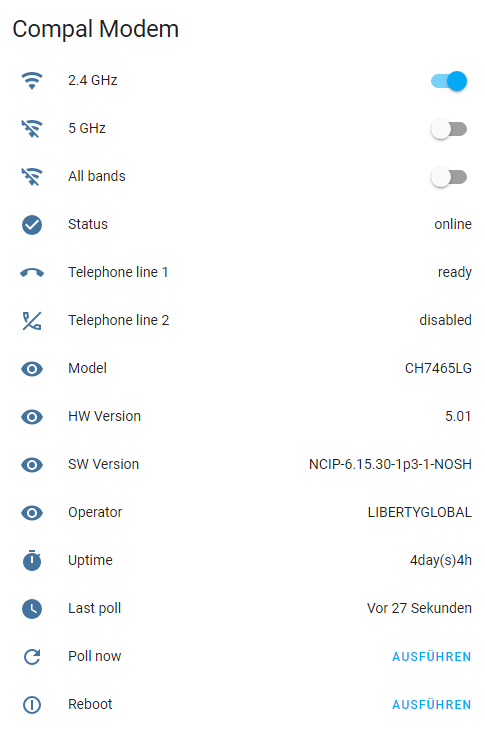
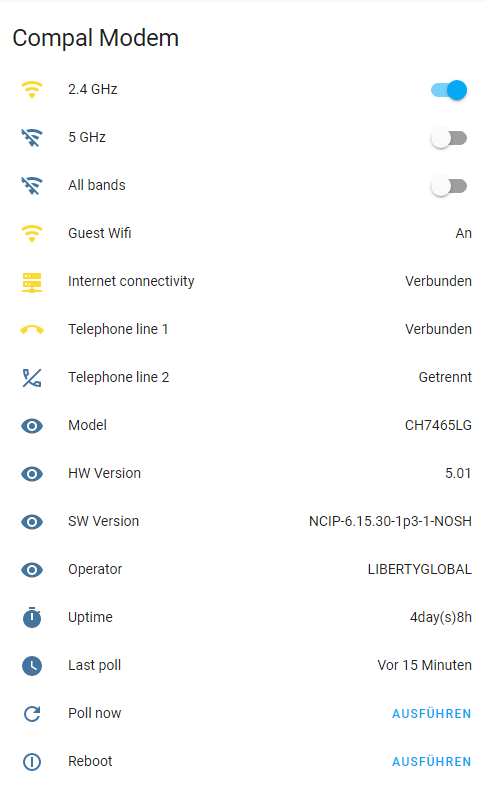
Added binary sensors

diff --git a/custom_components/compal_wifi/binary_sensor.py b/custom_components/compal_wifi/binary_sensor.py
@@ -1,0 +1,149 @@
+"""Platform for binary_sensor integration."""
+
+from homeassistant.components.binary_sensor import BinarySensorEntity
+from homeassistant.components.binary_sensor import DEVICE_CLASS_CONNECTIVITY
+
+from . import DOMAIN
+
+
+def setup_platform(hass, config, add_entities, discovery_info=None):
+    """Set up the sensor platform."""
+    # We only want this platform to be set up via discovery.
+    if discovery_info is None:
+        return
+    compal_config = hass.data[DOMAIN]
+    add_entities(
+        [
+            GuestWifiBinarySensor(compal_config),
+            ModemConnectivityBinarySensor(compal_config),
+            TelephoneLineBinarySensor(
+                compal_config,
+                0,
+            ),
+            TelephoneLineBinarySensor(
+                compal_config,
+                1,
+            ),
+        ]
+    )
+
+
+class GuestWifiBinarySensor(BinarySensorEntity):
+    """representation of a Demo binary sensor."""
+
+    def __init__(self, compal_config):
+        """Initialize the demo sensor."""
+        self._compal_config = compal_config
+
+    @property
+    def name(self):
+        """Return the name of the binary sensor."""
+        return "Compal Wifi Modem Guest Wifi"
+
+    @property
+    def is_on(self):
+        """Return true if the binary sensor is on."""
+        guest_wifis = self._compal_config.current_modem_state["wifi_guest"]
+        for quest_wifi in guest_wifis:
+            if quest_wifi["enabled"]:
+                return True
+        return False
+
+    @property
+    def icon(self):
+        """Return the icon to use for the valve."""
+        if self.is_on:
+            return "mdi:wifi"
+        return "mdi:wifi-off"
+
+
+class ModemConnectivityBinarySensor(BinarySensorEntity):
+    """representation of a Demo binary sensor."""
+
+    def __init__(self, compal_config):
+        """Initialize the demo sensor."""
+        self._compal_config = compal_config
+
+    @property
+    def name(self):
+        """Return the name of the binary sensor."""
+        return "Compal Wifi Modem Internet Connectivity"
+
+    @property
+    def is_on(self):
+        """Return true if the binary sensor is on."""
+        return self._compal_config.current_modem_state["modem"]["status"] == "online"
+
+    @property
+    def device_class(self):
+        return DEVICE_CLASS_CONNECTIVITY
+
+    @property
+    def device_state_attributes(self):
+        """Return device specific state attributes."""
+        return {"state": self._compal_config.current_modem_state["modem"]["status"]}
+
+
+class TelephoneLineBinarySensor(BinarySensorEntity):
+    """Representation of a sensor."""
+
+    def __init__(self, compal_config, line_index):
+        """Initialize the sensor."""
+        self._compal_config = compal_config
+        self._line_index = line_index
+        self._state = self.get_state()
+        self._on_hook = self.get_on_hook()
+
+    def get_state(self):
+        return self._compal_config.current_modem_state["telephone_line"][
+            self._line_index
+        ]["mta_state"]
+
+    def get_on_hook(self):
+        return self._compal_config.current_modem_state["telephone_line"][
+            self._line_index
+        ]["on_hook"]
+
+    @property
+    def name(self):
+        """Return the name of the sensor."""
+        return (
+            "Compal Wifi Modem Telephone Line "
+            + self._compal_config.current_modem_state["telephone_line"][
+                self._line_index
+            ]["line_number"]
+        )
+
+    @property
+    def is_on(self):
+        return self._state == "ready"
+
+    def update(self):
+        """Fetch new state data for the sensor.
+        This is the only method that should fetch new data for Home Assistant.
+        """
+        self._state = self.get_state()
+        self._on_hook = self.get_on_hook()
+
+    @property
+    def icon(self):
+        """Return the icon to use for the valve."""
+        return (
+            "mdi:phone-off-outline"
+            if self._state != "ready"
+            else "mdi:phone-hangup"
+            if self._on_hook
+            else "mdi:phone-in-talk"
+        )
+
+    @property
+    def device_state_attributes(self):
+        """Return device specific state attributes."""
+        return {
+            "state": self._state,
+            "on_hook": self._on_hook,
+        }
+
+    @property
+    def device_class(self):
+        return DEVICE_CLASS_CONNECTIVITY

diff --git a/custom_components/compal_wifi/sensor.py b/custom_components/compal_wifi/sensor.py
@@ -20,12 +20,6 @@ def setup_platform(hass, config, add_entities, discovery_info=None):
                 compal_config,
             ),
             ModemSensor(
-                "Compal Wifi Modem Status",
-                compal_config,
-                lambda modem: modem["status"],
-                "mdi:checkbox-marked-circle",
-            ),
-            ModemSensor(
                 "Compal Wifi Modem Model",
                 compal_config,
                 lambda modem: modem["model"],
@@ -50,14 +44,6 @@ def setup_platform(hass, config, add_entities, discovery_info=None):
                 compal_config,
                 lambda modem: modem["uptime"].split(":", 1)[0],
                 "mdi:timer",
-            ),
-            TelephoneLineSensor(
-                compal_config,
-                0,
-            ),
-            TelephoneLineSensor(
-                compal_config,
-                1,
             ),
         ]
     )
@@ -131,62 +117,3 @@ class ModemSensor(Entity):
     @property
     def icon(self):
         return self._icon
-
-
-class TelephoneLineSensor(Entity):
-    """Representation of a sensor."""
-
-    def __init__(self, compal_config, line_index):
-        """Initialize the sensor."""
-        self._compal_config = compal_config
-        self._line_index = line_index
-        self._state = self.get_state()
-        self._on_hook = self.get_on_hook()
-
-    def get_state(self):
-        return self._compal_config.current_modem_state["telephone_line"][
-            self._line_index
-        ]["mta_state"]
-
-    def get_on_hook(self):
-        return self._compal_config.current_modem_state["telephone_line"][
-            self._line_index
-        ]["on_hook"]
-
-    @property
-    def name(self):
-        """Return the name of the sensor."""
-        return (
-            "Compal Wifi Modem Telephone Line "
-            + self._compal_config.current_modem_state["telephone_line"][
-                self._line_index
-            ]["line_number"]
-        )
-
-    @property
-    def state(self):
-        """Return the state of the sensor."""
-        return self._state
-
-    def update(self):
-        """Fetch new state data for the sensor.
-        This is the only method that should fetch new data for Home Assistant.
-        """
-        self._state = self.get_state()
-        self._on_hook = self.get_on_hook()
-
-    @property
-    def icon(self):
-        """Return the icon to use for the valve."""
-        return (
-            "mdi:phone-off-outline"
-            if self._state != "ready"
-            else "mdi:phone-hangup"
-            if self._on_hook
-            else "mdi:phone-in-talk"
-        )
-
-    @property
-    def device_state_attributes(self):
-        """Return device specific state attributes."""
-        return {"on_hook": self._on_hook}

diff --git a/custom_components/compal_wifi/switch.py b/custom_components/compal_wifi/switch.py
@@ -66,35 +66,40 @@ class WifiSwitch:
 
 
 def switch_wifi(wifi_switch: WifiSwitch, state, band):
+    compal_config = wifi_switch.config()
     wifi_switch.set_processing_state("on")
 
-    def switch_wifi_blocking(
-        semaphore, _host, _password, _state, _band, _guest, _pause
-    ):
-        semaphore.acquire()
+    def switch_wifi_blocking():
+        compal_config.semaphore.acquire()
         enable_guest = False
-        if _state == Switch.ON:
-            enable_guest = _guest
+        if state == Switch.ON:
+            enable_guest = compal_config.guest
         try:
-            Commands.switch(_host, _password, _state, _band, enable_guest, _pause)
+            Commands.switch(
+                compal_config.host,
+                compal_config.password,
+                state,
+                band,
+                enable_guest,
+                compal_config.pause,
+            )
             wifi_switch.set_processing_state("off")
         except:
             wifi_switch.set_processing_state("error")
         finally:
-            semaphore.release()
+            try:
+                compal_config.current_modem_state = Commands.status(
+                    compal_config.host, compal_config.password
+                )
+                compal_config.last_update = datetime.now()
+                compal_config.update_state = "ok"
+            except:
+                compal_config.update_state = "error"
+            finally:
+                compal_config.semaphore.release()
 
-    config = wifi_switch.config()
     threading.Thread(
         target=switch_wifi_blocking,
-        args=(
-            config.semaphore,
-            config.host,
-            config.password,
-            state,
-            band,
-            config.guest,
-            config.pause,
-        ),
     ).start()
 
 

diff --git a/custom_components/compal_wifi/__init__.py b/custom_components/compal_wifi/__init__.py
@@ -50,9 +50,6 @@ def modem_reboot(compal_config):
         except:
             return False
         finally:
-            compal_config.last_update = compal_config.last_update - timedelta(
-                seconds=compal_config.polling_interval
-            )
             compal_config.semaphore.release()
 
     threading.Thread(
@@ -79,6 +76,7 @@ def setup(hass, config):
     hass.data[DOMAIN] = compal_config
 
     hass.helpers.discovery.load_platform("sensor", DOMAIN, {}, config)
+    hass.helpers.discovery.load_platform("binary_sensor", DOMAIN, {}, config)
     hass.helpers.discovery.load_platform("switch", DOMAIN, {}, config)
 
     def handle_reboot(call):

diff --git a/README.md b/README.md
@@ -65,20 +65,21 @@ Name | Values | Description
 `state` | `on` or `off` | Switch state.
 `switch_progress` | `on`, `off` or `error` | Whether a swich change is in progress or not or `error` if the last switch operation was faulty.
 
-### Sensor
+### Sensor & Binary sensor 
 The componet offers various sensors:
 
 Entity | Description
 ---- | -----------
-switch.compal.wifi.modem.last.poll | Timestamp of last status poll
-switch.compal.wifi.modem.status | Modem status
-switch.compal.wifi.modem.model | Modem model
-switch.compal.wifi.modem.hardware Version | Hardware version
-switch.compal.wifi.modem.software Version | Software version
-switch.compal.wifi.modem.operator | Modem operator
-switch.compal.wifi.modem.uptime | Modem uptime
-switch.compal.wifi.modem.telephone.line.1 | State of telephone line 1
-switch.compal.wifi.modem.telephone.line.2 | State of telephone line 2
+binary_sensor.compal_wifi_modem_guest_wifi | Guest Wifi state
+binary_sensor.compal_wifi_modem_internet_connectivity | Modem internet connectivity state
+binary_sensor.compal_wifi_modem_telephone_line_1 | Telephone line 1 state
+binary_sensor.compal_wifi_modem_telephone_line_2 | Telephone line 2 state
+sensor.compal_wifi_modem_last_poll | Timestamp of last status poll
+sensor.compal_wifi_modem_model | Modem model
+sensor.compal_wifi_modem_hardware_version | Hardware version
+sensor.compal_wifi_modem_software_version | Software version
+sensor.compal_wifi_modem_operator | Modem operator
+sensor.compal_wifi_modem_uptime | Modem uptime
 
 ## Services
 The componet offers the following services:
